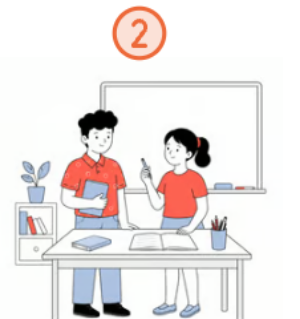
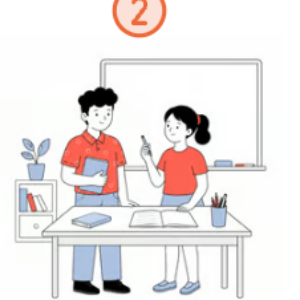
Matricula: corrige numero duplicado e rotulos cortados na trilha
- Recorta as ilustracoes sem o numero (evita numero duplicado).
- Cards quadrados de tamanho fixo, espalhados (space-evenly) sem forcar
  preencher, para os rotulos nao cortarem.

diff --git a/inicio.html b/inicio.html
@@ -159,9 +159,9 @@
     .wz-warn svg { width: 26px; height: 26px; color: #9AA1AB; flex-shrink: 0; }
     .wz-warn span { font-size: 13px; color: #8A94A6; line-height: 1.45; text-align: left; }
 
-    .wz-steps { width: 392px; flex-shrink: 0; background: #FAFBFC; border-left: 1px solid #EDEFF3; padding: 26px; display: grid; grid-template-columns: 1fr 1fr; grid-auto-rows: 1fr; gap: 22px; align-content: stretch; }
-    .wz-step { text-align: center; display: flex; flex-direction: column; min-height: 0; }
-    .wz-step-thumb { position: relative; flex: 1; min-height: 0; border: 1.5px solid #EAEDF1; border-radius: 13px; background: #fff; display: flex; align-items: center; justify-content: center; color: #C7CED9; overflow: hidden; }
+    .wz-steps { width: 392px; flex-shrink: 0; background: #FAFBFC; border-left: 1px solid #EDEFF3; padding: 26px; display: grid; grid-template-columns: 1fr 1fr; gap: 16px 22px; align-content: space-evenly; }
+    .wz-step { text-align: center; }
+    .wz-step-thumb { position: relative; aspect-ratio: 1 / 1; border: 1.5px solid #EAEDF1; border-radius: 13px; background: #fff; display: flex; align-items: center; justify-content: center; color: #C7CED9; overflow: hidden; }
     .wz-step.active .wz-step-thumb { border-color: #ED6939; box-shadow: 0 0 0 3px rgba(237,105,57,.12); color: #ED6939; }
     .wz-step-thumb svg { width: 72%; height: 72%; }
     .wz-step-img { width: 100%; height: 100%; object-fit: contain; display: block; }
